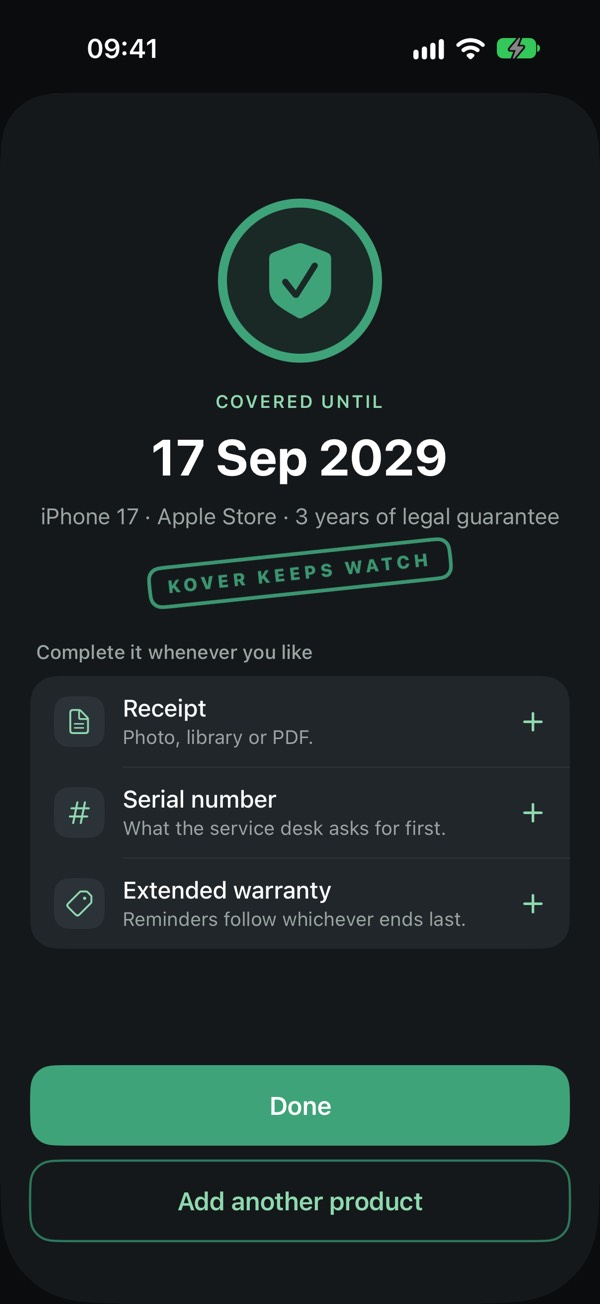
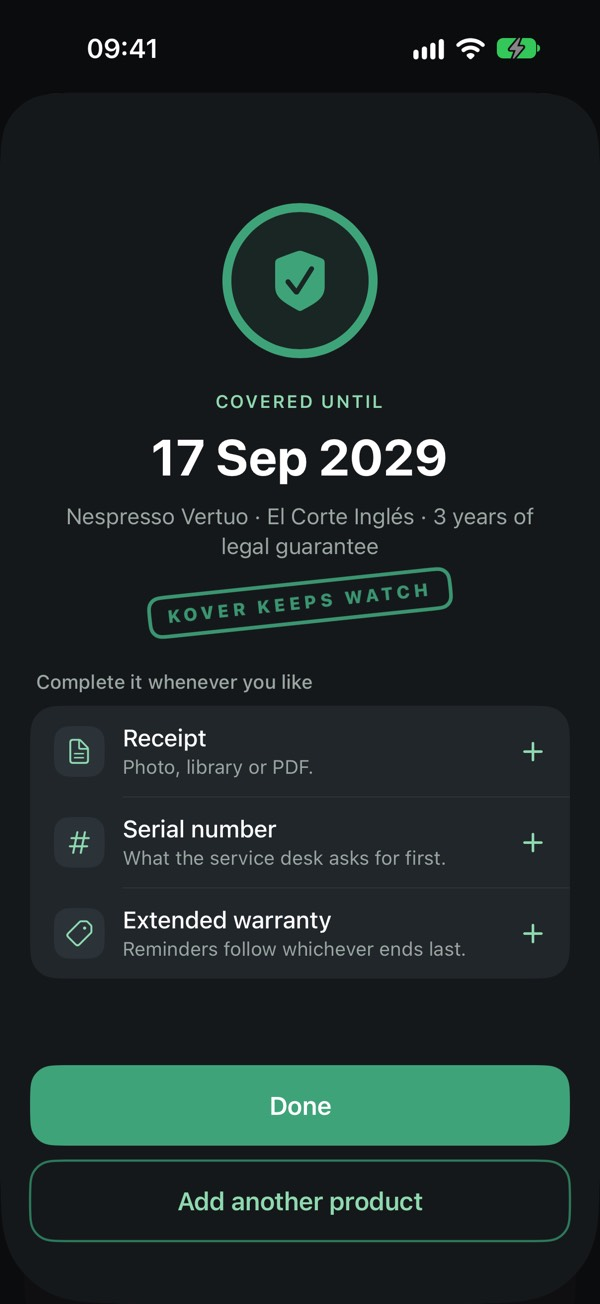
Kover: paper seal on the product page and the dashboard in the screenshots; the seal that wears in feature 02

diff --git a/es/apps/kover.html b/es/apps/kover.html
@@ -55,13 +55,13 @@
       
     </div>
   </section>
-  <section class="shell" aria-label="Capturas"><div class="shots shots-4"><figure><div class="phone"><img src="../../assets/shots/kover-01-products.jpg" alt="Captura de Kover: La próxima en caducar, y toda la estantería" loading="lazy" width="552" height="1200"></div><figcaption>La próxima en caducar, y toda la estantería</figcaption></figure><figure><div class="phone"><img src="../../assets/shots/kover-02-add.jpg" alt="Captura de Kover: Tres preguntas: qué, cuándo, cuánto" loading="lazy" width="552" height="1200"></div><figcaption>Tres preguntas: qué, cuándo, cuánto</figcaption></figure><figure><div class="phone"><img src="../../assets/shots/kover-03-seal.jpg" alt="Captura de Kover: Guardado y sellado: cubierto hasta 2029" loading="lazy" width="552" height="1200"></div><figcaption>Guardado y sellado: cubierto hasta 2029</figcaption></figure><figure><div class="phone"><img src="../../assets/shots/kover-04-detail.jpg" alt="Captura de Kover: Un producto: cubierto hasta, en palabras" loading="lazy" width="552" height="1200"></div><figcaption>Un producto: cubierto hasta, en palabras</figcaption></figure></div></section>
+  <section class="shell" aria-label="Capturas"><div class="shots shots-4"><figure><div class="phone"><img src="../../assets/shots/kover-01-products.jpg" alt="Captura de Kover: La próxima en caducar, y toda la estantería" loading="lazy" width="552" height="1200"></div><figcaption>La próxima en caducar, y toda la estantería</figcaption></figure><figure><div class="phone"><img src="../../assets/shots/kover-02-add.jpg" alt="Captura de Kover: Tres preguntas: qué, cuándo, cuánto" loading="lazy" width="552" height="1200"></div><figcaption>Tres preguntas: qué, cuándo, cuánto</figcaption></figure><figure><div class="phone"><img src="../../assets/shots/kover-03-seal.jpg" alt="Captura de Kover: Guardado y sellado: cubierto hasta 2029" loading="lazy" width="552" height="1200"></div><figcaption>Guardado y sellado: cubierto hasta 2029</figcaption></figure><figure><div class="phone"><img src="../../assets/shots/kover-04-detail.jpg" alt="Captura de Kover: El sello sigue vivo: cubierto hasta, en papel" loading="lazy" width="552" height="1200"></div><figcaption>El sello sigue vivo: cubierto hasta, en papel</figcaption></figure></div></section>
 
   <section class="section shell" aria-labelledby="what-title">
     <div class="section-head">
       <div><p class="eyebrow">Qué hace</p><h2 id="what-title">Una sola cosa, <span>bien hecha.</span></h2></div>
     </div>
-    <div class="features"><div class="feature"><span class="num">01 / AÑADIR</span><h3>Tres preguntas y el sello</h3><p>Qué has comprado, cuándo y dónde, cuánto costó. O deja que responda el ticket: cámara, fototeca o un PDF del correo, y los pasos llegan rellenos. Guardar termina en «Cubierto hasta».</p></div><div class="feature"><span class="num">02 / VIGILAR</span><h3>Cubierto hasta, en palabras</h3><p>Garantía legal según el país —36 meses en España— más la extendida si la hay. «Quedan 3 años», no una cuenta atrás de días. Avisos un mes antes, una semana antes y el mismo día.</p></div><div class="feature"><span class="num">03 / RECLAMAR</span><h3>Todo para el día que lo necesites</h3><p>Número de serie, teléfono o web de soporte a un toque, la foto del ticket y un PDF para compartir. Reclamado, sustituido o ya no es tuyo: archivar en vez de borrar.</p></div></div>
+    <div class="features"><div class="feature"><span class="num">01 / AÑADIR</span><h3>Tres preguntas y el sello</h3><p>Qué has comprado, cuándo y dónde, cuánto costó. O deja que responda el ticket: cámara, fototeca o un PDF del correo, y los pasos llegan rellenos. Guardar termina en «Cubierto hasta».</p></div><div class="feature"><span class="num">02 / VIGILAR</span><h3>Cubierto hasta, en palabras</h3><p>Garantía legal según el país —36 meses en España— más la extendida si la hay. «Quedan 3 años», no una cuenta atrás de días, en un sello que se gasta con el tiempo. Avisos un mes antes, una semana antes y el mismo día.</p></div><div class="feature"><span class="num">03 / RECLAMAR</span><h3>Todo para el día que lo necesites</h3><p>Número de serie, teléfono o web de soporte a un toque, la foto del ticket y un PDF para compartir. Reclamado, sustituido o ya no es tuyo: archivar en vez de borrar.</p></div></div>
   </section>
 
   <section class="shell" aria-labelledby="privacy-title">

diff --git a/apps/kover.html b/apps/kover.html
@@ -55,13 +55,13 @@
       
     </div>
   </section>
-  <section class="shell" aria-label="Screenshots"><div class="shots shots-4"><figure><div class="phone"><img src="../assets/shots/kover-01-products.jpg" alt="Kover screenshot: Next to expire, and the whole shelf" loading="lazy" width="552" height="1200"></div><figcaption>Next to expire, and the whole shelf</figcaption></figure><figure><div class="phone"><img src="../assets/shots/kover-02-add.jpg" alt="Kover screenshot: Three questions: what, when, how much" loading="lazy" width="552" height="1200"></div><figcaption>Three questions: what, when, how much</figcaption></figure><figure><div class="phone"><img src="../assets/shots/kover-03-seal.jpg" alt="Kover screenshot: Saved and sealed: covered until 2029" loading="lazy" width="552" height="1200"></div><figcaption>Saved and sealed: covered until 2029</figcaption></figure><figure><div class="phone"><img src="../assets/shots/kover-04-detail.jpg" alt="Kover screenshot: One product: covered until, in plain words" loading="lazy" width="552" height="1200"></div><figcaption>One product: covered until, in plain words</figcaption></figure></div></section>
+  <section class="shell" aria-label="Screenshots"><div class="shots shots-4"><figure><div class="phone"><img src="../assets/shots/kover-01-products.jpg" alt="Kover screenshot: Next to expire, and the whole shelf" loading="lazy" width="552" height="1200"></div><figcaption>Next to expire, and the whole shelf</figcaption></figure><figure><div class="phone"><img src="../assets/shots/kover-02-add.jpg" alt="Kover screenshot: Three questions: what, when, how much" loading="lazy" width="552" height="1200"></div><figcaption>Three questions: what, when, how much</figcaption></figure><figure><div class="phone"><img src="../assets/shots/kover-03-seal.jpg" alt="Kover screenshot: Saved and sealed: covered until 2029" loading="lazy" width="552" height="1200"></div><figcaption>Saved and sealed: covered until 2029</figcaption></figure><figure><div class="phone"><img src="../assets/shots/kover-04-detail.jpg" alt="Kover screenshot: The seal stays alive: covered until, on paper" loading="lazy" width="552" height="1200"></div><figcaption>The seal stays alive: covered until, on paper</figcaption></figure></div></section>
 
   <section class="section shell" aria-labelledby="what-title">
     <div class="section-head">
       <div><p class="eyebrow">What it does</p><h2 id="what-title">One job, <span>done well.</span></h2></div>
     </div>
-    <div class="features"><div class="feature"><span class="num">01 / ADD</span><h3>Three questions, then the seal</h3><p>What did you buy, when and where, how much. Or let the receipt answer: camera, photo library or a PDF from your email, and the steps come prefilled. Saving ends on «Covered until».</p></div><div class="feature"><span class="num">02 / WATCH</span><h3>Covered until, in plain words</h3><p>Legal guarantee by country — 36 months in Spain — plus any extended warranty on top. «3 years left», not a countdown of days. Reminders at one month, one week and the day of.</p></div><div class="feature"><span class="num">03 / CLAIM</span><h3>Everything for the day you need it</h3><p>Serial number, support phone or website one tap away, the receipt photo, and a PDF to share. Claimed, replaced or gone: archive instead of delete.</p></div></div>
+    <div class="features"><div class="feature"><span class="num">01 / ADD</span><h3>Three questions, then the seal</h3><p>What did you buy, when and where, how much. Or let the receipt answer: camera, photo library or a PDF from your email, and the steps come prefilled. Saving ends on «Covered until».</p></div><div class="feature"><span class="num">02 / WATCH</span><h3>Covered until, in plain words</h3><p>Legal guarantee by country — 36 months in Spain — plus any extended warranty on top. «3 years left», not a countdown of days, on a seal that wears as time passes. Reminders at one month, one week and the day of.</p></div><div class="feature"><span class="num">03 / CLAIM</span><h3>Everything for the day you need it</h3><p>Serial number, support phone or website one tap away, the receipt photo, and a PDF to share. Claimed, replaced or gone: archive instead of delete.</p></div></div>
   </section>
 
   <section class="shell" aria-labelledby="privacy-title">

diff --git a/tools/gen_site.py b/tools/gen_site.py
@@ -180,19 +180,19 @@ APPS=[
           lede='Receipts fade, warranties expire quietly. <strong>Kover</strong> reads the date, store and amount from a photo or PDF of the receipt, works out the legal guarantee for your country, and keeps the photo, the serial number and the support contact in one place — with a reminder a month, a week and the day before it ends.',
           meta=['iOS 17+','Camera, Photos or PDF','English · Spanish'],
           features=[('01 / ADD','Three questions, then the seal','What did you buy, when and where, how much. Or let the receipt answer: camera, photo library or a PDF from your email, and the steps come prefilled. Saving ends on «Covered until».'),
-                    ('02 / WATCH','Covered until, in plain words','Legal guarantee by country — 36 months in Spain — plus any extended warranty on top. «3 years left», not a countdown of days. Reminders at one month, one week and the day of.'),
+                    ('02 / WATCH','Covered until, in plain words','Legal guarantee by country — 36 months in Spain — plus any extended warranty on top. «3 years left», not a countdown of days, on a seal that wears as time passes. Reminders at one month, one week and the day of.'),
                     ('03 / CLAIM','Everything for the day you need it','Serial number, support phone or website one tap away, the receipt photo, and a PDF to share. Claimed, replaced or gone: archive instead of delete.')],
           privacy='Kover keeps your products and receipt photos on your device and in your own iCloud account. Receipts are read on the phone with Apple\'s Vision framework — nothing is uploaded, no account, no analytics.',
-          captions=['Next to expire, and the whole shelf','Three questions: what, when, how much','Saved and sealed: covered until 2029','One product: covered until, in plain words']),
+          captions=['Next to expire, and the whole shelf','Three questions: what, when, how much','Saved and sealed: covered until 2029','The seal stays alive: covered until, on paper']),
      dict(one='Haz una foto al ticket y Kover vigila la garantía: qué está cubierto, hasta cuándo, y un aviso antes de que se acabe.',
           tags=['Garantías','Tickets','ES · EN'],
           lede='Los tickets se borran, las garantías caducan sin avisar. <strong>Kover</strong> lee la fecha, la tienda y el importe de una foto o un PDF del ticket, calcula la garantía legal de tu país y guarda la foto, el número de serie y el contacto de soporte en un mismo sitio, con un aviso un mes, una semana y el día antes de que termine.',
           meta=['iOS 17+','Cámara, Fotos o PDF','Castellano · Inglés'],
           features=[('01 / AÑADIR','Tres preguntas y el sello','Qué has comprado, cuándo y dónde, cuánto costó. O deja que responda el ticket: cámara, fototeca o un PDF del correo, y los pasos llegan rellenos. Guardar termina en «Cubierto hasta».'),
-                    ('02 / VIGILAR','Cubierto hasta, en palabras','Garantía legal según el país —36 meses en España— más la extendida si la hay. «Quedan 3 años», no una cuenta atrás de días. Avisos un mes antes, una semana antes y el mismo día.'),
+                    ('02 / VIGILAR','Cubierto hasta, en palabras','Garantía legal según el país —36 meses en España— más la extendida si la hay. «Quedan 3 años», no una cuenta atrás de días, en un sello que se gasta con el tiempo. Avisos un mes antes, una semana antes y el mismo día.'),
                     ('03 / RECLAMAR','Todo para el día que lo necesites','Número de serie, teléfono o web de soporte a un toque, la foto del ticket y un PDF para compartir. Reclamado, sustituido o ya no es tuyo: archivar en vez de borrar.')],
           privacy='Kover guarda tus productos y las fotos de los tickets en tu dispositivo y en tu propia cuenta de iCloud. Los tickets se leen en el propio teléfono con el framework Vision de Apple: no se sube nada, sin cuenta, sin analítica.',
-          captions=['La próxima en caducar, y toda la estantería','Tres preguntas: qué, cuándo, cuánto','Guardado y sellado: cubierto hasta 2029','Un producto: cubierto hasta, en palabras'])),
+          captions=['La próxima en caducar, y toda la estantería','Tres preguntas: qué, cuándo, cuánto','Guardado y sellado: cubierto hasta 2029','El sello sigue vivo: cubierto hasta, en papel'])),
  app('tandem','Tandem','tandem.png','Sendoa Sola','tandem',
      ['tandem-01-dashboard.jpg','tandem-02-expenses.jpg','tandem-04-settle.jpg','tandem-03-reports.jpg'],
      dict(one='Fair expense splitting for couples: each pays in proportion to what they earn, and the month settles with one number.',
